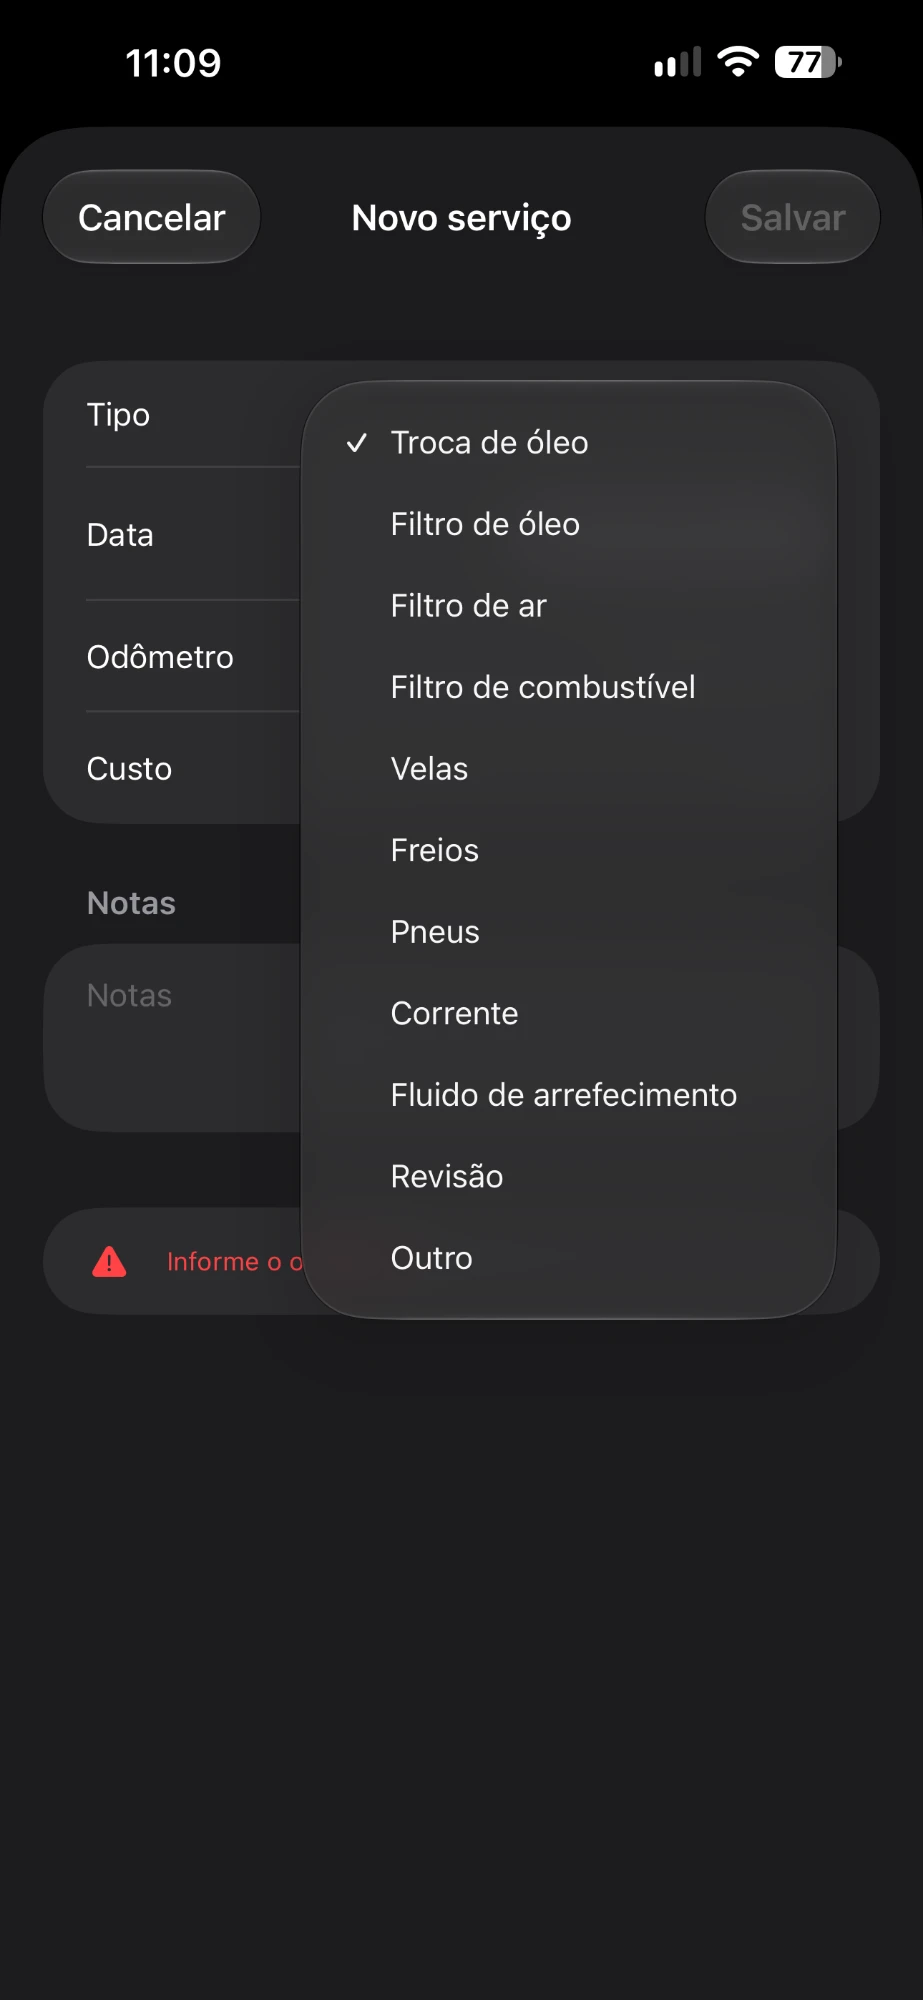
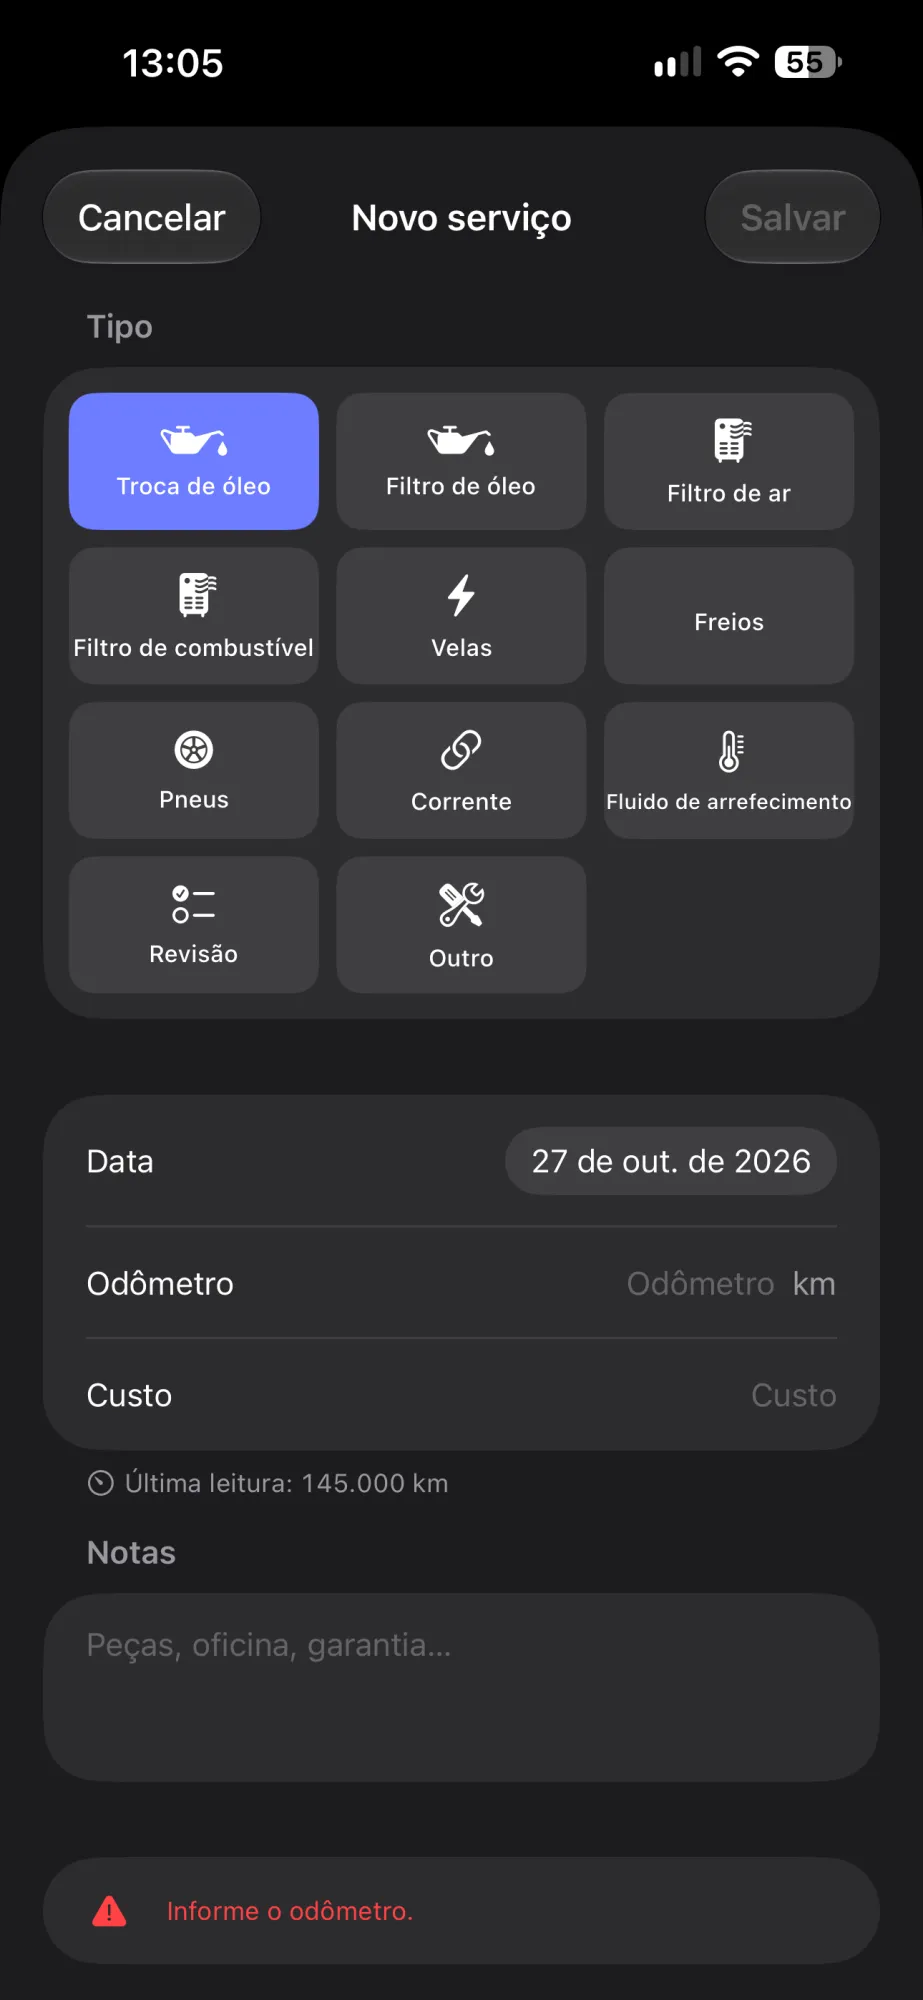
docs: update screenshots for the new visual

diff --git a/README.md b/README.md
@@ -15,9 +15,9 @@
 
 <p align="center">
   <img src="docs/screenshots/vehicles.webp" width="190" alt="Vehicle list">
-  <img src="docs/screenshots/vehicle-detail.webp" width="190" alt="Vehicle detail with summary and monthly timeline">
+  <img src="docs/screenshots/vehicle-detail.webp" width="190" alt="Vehicle dashboard with metrics, maintenance status and spending chart">
   <img src="docs/screenshots/fuel-form.webp" width="190" alt="New fuel-up form with validation">
-  <img src="docs/screenshots/service-types.webp" width="190" alt="New service form with service types">
+  <img src="docs/screenshots/service-types.webp" width="190" alt="New service form with the service type grid">
 </p>
 
 ## Features
